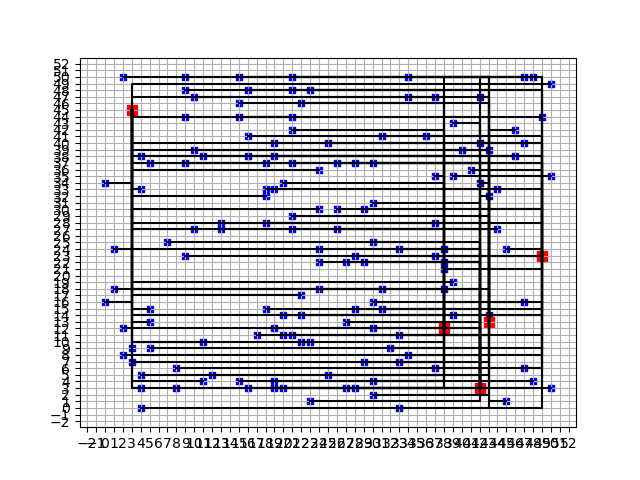
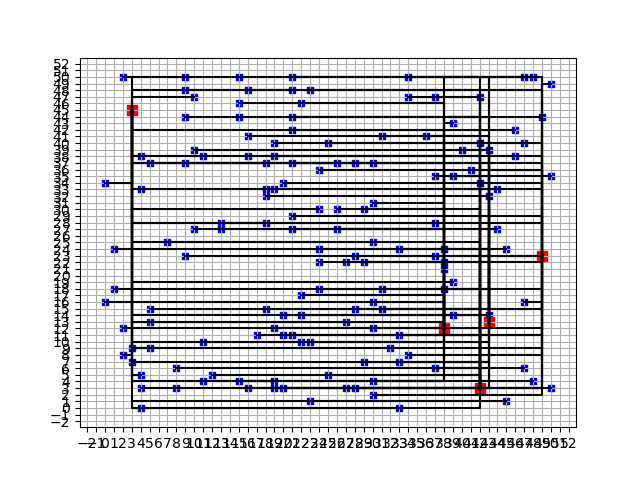
broken version

diff --git a/main.py b/main.py
@@ -10,22 +10,22 @@ from visualize import visualize_grid, visualize_bar, visualize_hill
 def hillclimber(houses, wires):
     new_wires = False
     while new_wires == False:
-        house_list = houses.random_pick()
-        new_wires = wires.swap(house_list[0], house_list[1])
+        house_1 = houses.random_pick()
+        house_2 = houses.random_pick()
+        new_wires = wires.swap(house_1, house_2)
     return new_wires
 
 def main(wijk_num: str, iterations: int,  restart, save_changes: bool,) -> None:
     cost_record = []
     count = 0
     # init
-    og_houses = Houses(f'data/district_{wijk_num}/district-{wijk_num}_houses.csv')             # noqa: E501
-    og_batteries = Batteries(f'data/district_{wijk_num}/district-{wijk_num}_batteries.csv')    # noqa: E501
-    og_wires = Wires()
+    houses = Houses(f'data/district_{wijk_num}/district-{wijk_num}_houses.csv')             # noqa: E501
+    batteries = Batteries(f'data/district_{wijk_num}/district-{wijk_num}_batteries.csv')    # noqa: E501
+    wires = Wires()
     lowest_cost = 999999
     for i in range(iterations):
-        houses = deepcopy(og_houses)
-        batteries = deepcopy(og_batteries)
-        wires = deepcopy(og_wires)
+        houses.disconnect_all()
+        batteries.disconnect_all()
         grid = False
         while grid == False:
             grid = wires.generate(houses, batteries)
@@ -33,13 +33,15 @@ def main(wijk_num: str, iterations: int,  restart, save_changes: bool,) -> None:
         cost = calculate_shared_cost(wires.shared_wires, batteries)
         cost_record.append(cost)
         count = 0
+        it = 0
         while count < restart:
-
-            print(f"iteration {i}, cost {cost}")
+            print(f"iteration {it}, cost {cost}")
+            it += 1
             new_wires = hillclimber(houses, wires)
             new_shared_wires = wires.share_wires(new_wires)
             new_cost = calculate_shared_cost(new_shared_wires, batteries)
-            if new_cost <= cost:
+            print(new_cost)
+            if new_cost < cost:
                 cost = new_cost
                 wires.wires = new_wires
                 wires.shared_wires = new_shared_wires

diff --git a/wires.py b/wires.py
@@ -66,7 +66,6 @@ class Wires():
     def __init__(self) -> None:
         self.wires = {}
         self.shared_wires = {}
-        self.wire_segments = set()
 
     def generate(self, houses: Type[Houses],
                  batteries: Type[Batteries]) -> bool:
@@ -77,7 +76,6 @@ class Wires():
 
         self.wires = {}
         self.shared_wires = {}
-        self.wire_segments = set()
         
         # Iterate through each house them battery
         for house_index in random_order_houses:
@@ -103,9 +101,6 @@ class Wires():
         # Make new wire
         wire = Wire(wire_id, house, battery, wire_path)
         return wire
-
-    def total_wires_segments(self) -> int:
-        return len(self.wire_segments)
 
     def connect(self, house: Type[House], battery: Type[Battery]) -> None:
         house.connect(battery)

diff --git a/houses.py b/houses.py
@@ -1,5 +1,6 @@
 import pandas as pd
 import random
+import numpy as np
 from typing import Dict, Tuple, Type, List
 from batteries import Battery
 
@@ -112,7 +113,7 @@ class Houses():
         return False
 
     def random_pick(self):
-        return random.choices(list(self.dict_houses.values()), k=2)
+        return np.random.choice(list(self.dict_houses.values()))
 
     def disconnect_all(self):
         for house in self.dict_houses.values():
